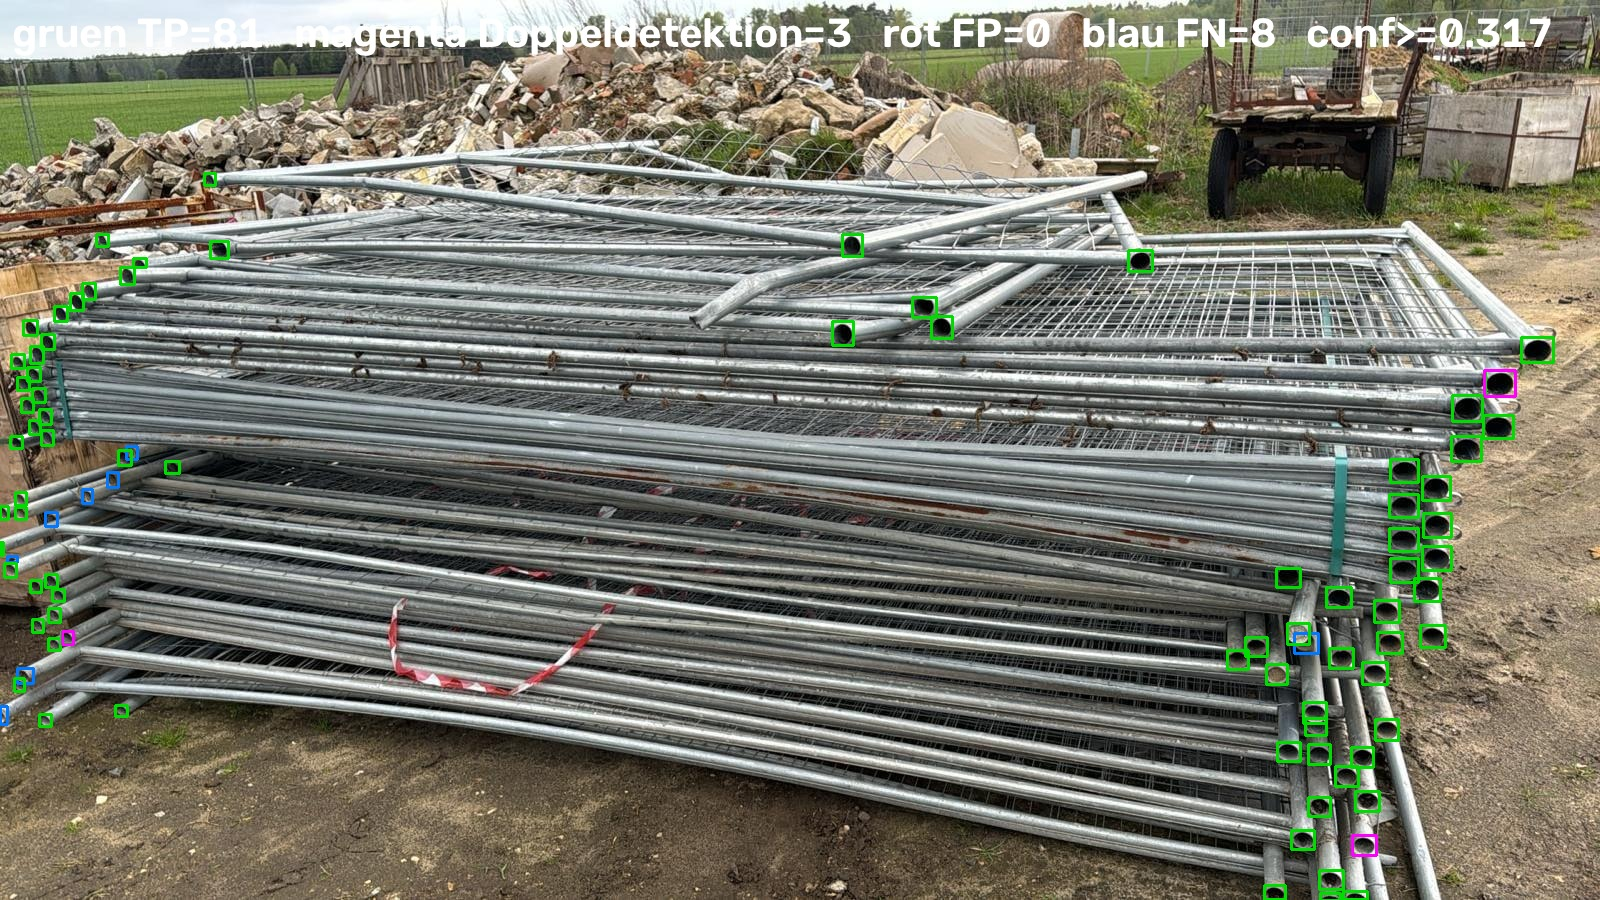
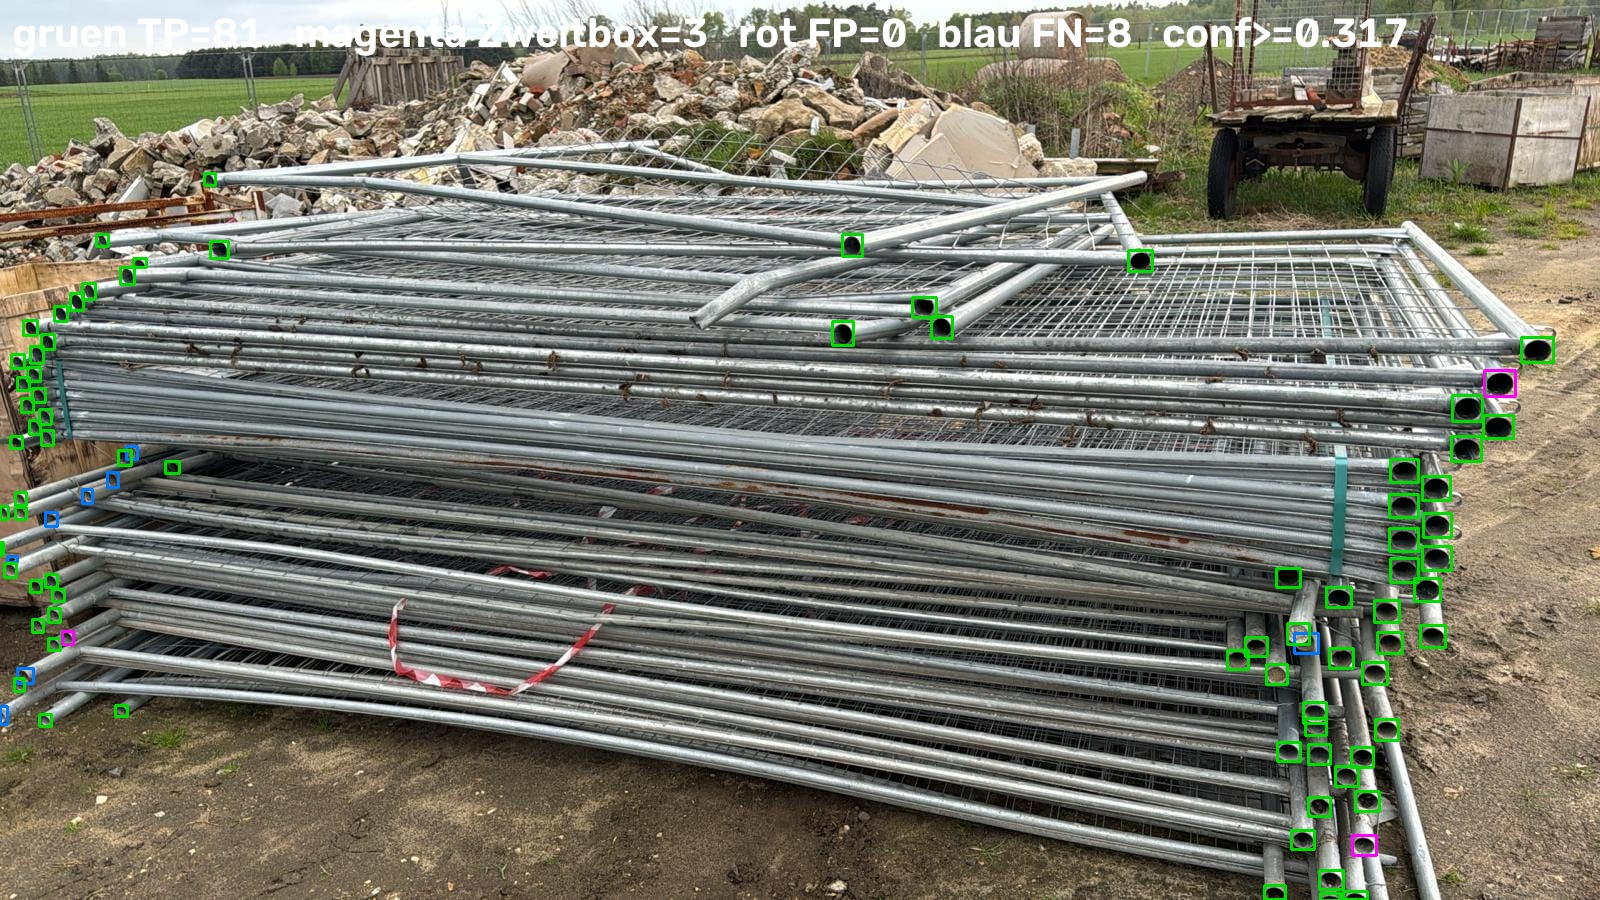
beschrifte die Kopien in Abbildung A.4 als Zweitbox
Die Bildbeschriftung sagte "Doppeldetektion", die Bildunterschrift
"Zweitbox". Beide Bilder sind mit dem Referenzmodell neu erzeugt;
analyse.json bleibt unveraendert. Der JSON-Schluessel
davon_doppeldetektion bleibt, weil report_neu.py ihn liest.

Changed region(s): [[0.3125, 0.0, 0.9688, 0.0622]]

diff --git a/src/analyse_neu.py b/src/analyse_neu.py
@@ -211,14 +211,14 @@ def qualbild(preds, split, conf):
                 col = (0, 220, 0)                          # Treffer gruen
             else:
                 if fp_art(M, i, hit) == "zweitbox":
-                    col = (255, 0, 255)                    # Doppeldetektion magenta
+                    col = (255, 0, 255)                    # Zweitbox magenta
                     n_dop += 1
                 else:
                     col = (0, 0, 255)                      # uebrige FP rot
             cv2.rectangle(im, (int(b[0]), int(b[1])), (int(b[2]), int(b[3])), col, 2)
 
         n_fp = int((~tp).sum())
-        txt = (f"gruen TP={int(tp.sum())}   magenta Doppeldetektion={n_dop}   "
+        txt = (f"gruen TP={int(tp.sum())}   magenta Zweitbox={n_dop}   "
                f"rot FP={n_fp - n_dop}   blau FN={len(g) - len(hit)}   "
                f"conf>={conf:.3f}")
         # Schrift an die Bildbreite anpassen - test ist 1600 px breit, val 2459
@@ -229,7 +229,7 @@ def qualbild(preds, split, conf):
                     max(1, int(round(2 * sc))))
         out = os.path.join(DOC, f"qual_{split}.jpg")
         cv2.imwrite(out, im, [cv2.IMWRITE_JPEG_QUALITY, 92])
-        print("->", out, f"(TP {int(tp.sum())}, Doppel {n_dop}, FP {n_fp-n_dop}, "
+        print("->", out, f"(TP {int(tp.sum())}, Zweitbox {n_dop}, FP {n_fp-n_dop}, "
                          f"FN {len(g)-len(hit)})")
 
 
